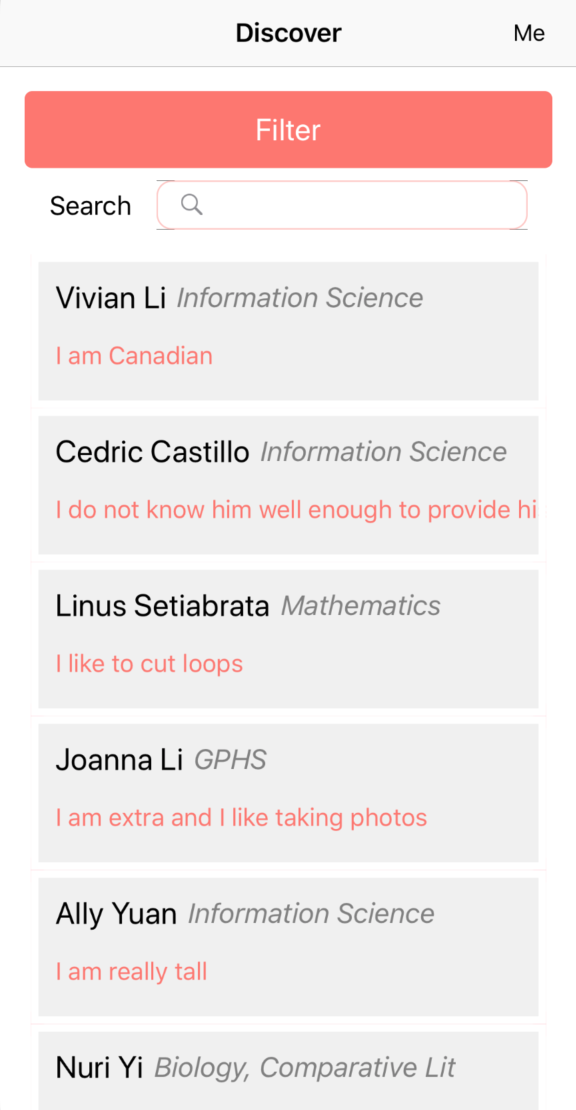
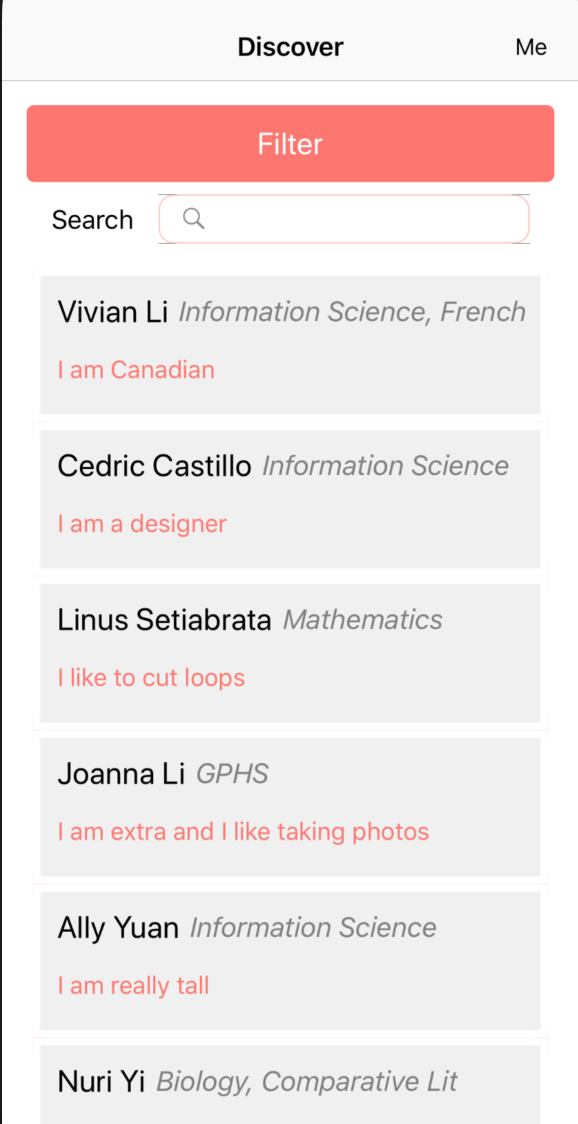
updates

diff --git a/iOSFinal/ViewController.swift b/iOSFinal/ViewController.swift
@@ -16,8 +16,8 @@ protocol SaveButtonDelegate {
 
 class ViewController: UIViewController, SaveButtonDelegate, UITableViewDataSource, UITableViewDelegate {
     
-    let profile1 = Profile(name: "Vivian Li", major: "Information Science", funFact: "I am Canadian", noiseTolerance: "Low", cleanliness: "Clean", sleeping: "11 PM - 1 AM", waking: "8 AM - 10 AM")
-    let profile2 = Profile(name: "Cedric Castillo", major: "Information Science", funFact: "I do not know him well enough to provide his fun fact for him", noiseTolerance: "Alright", cleanliness: "Messy", sleeping: "After 1 AM", waking: "Before 8 AM")
+    let profile1 = Profile(name: "Vivian Li", major: "Information Science, French", funFact: "I am Canadian", noiseTolerance: "Low", cleanliness: "Clean", sleeping: "11 PM - 1 AM", waking: "8 AM - 10 AM")
+    let profile2 = Profile(name: "Cedric Castillo", major: "Information Science", funFact: "I am a designer", noiseTolerance: "Alright", cleanliness: "Messy", sleeping: "After 1 AM", waking: "Before 8 AM")
      let profile3 = Profile(name: "Linus Setiabrata", major: "Mathematics", funFact: "I like to cut loops", noiseTolerance: "High", cleanliness: "Messy", sleeping: "11 PM - 1 AM", waking: "Before 8 AM")
      let profile4 = Profile(name: "Joanna Li", major: "GPHS", funFact: "I am extra and I like taking photos", noiseTolerance: "High", cleanliness: "Messy", sleeping: "After 1 AM", waking: "8 AM - 10 AM")
      let profile5 = Profile(name: "Ally Yuan", major: "Information Science", funFact: "I am really tall", noiseTolerance: "High", cleanliness: "Alright", sleeping: "After 1 AM", waking: "After 10 AM")
@@ -160,6 +160,9 @@ class ViewController: UIViewController, SaveButtonDelegate, UITableViewDataSourc
             cell.majorLabel.text = profiles[indexPath.row].major
             cell.funFactLabel.text = profiles[indexPath.row].funFact
             
+            cell.funFactLabel.numberOfLines = 0
+            cell.funFactLabel.lineBreakMode = NSLineBreakMode.byWordWrapping
+            
             cell.backgroundColor = cellColor
             cell.layer.borderColor = UIColor.white.cgColor
             cell.layer.borderWidth = 5
@@ -193,12 +196,12 @@ class ViewController: UIViewController, SaveButtonDelegate, UITableViewDataSourc
     }
     
     func surveySaveButtonPressed() {
-        // send info to database
+        // send info to database: send a post request using the values we obtained from the survey
         navigationController?.popToRootViewController(animated: true)
     }
     
     func filterSaveButtonPressed() {
-        // filter info from database
+        // filter info from database using the values we obtained from the slider functions
         dismiss(animated: true, completion: nil)
 //        tableView.reloadData()
     }

diff --git a/iOSFinal/SliderValue.swift b/iOSFinal/SliderValue.swift
@@ -7,8 +7,10 @@
 //
 
 import Foundation
+import UIKit
 
-func setNoiseTolerance(noiseToleranceSlider: Float) -> String{
+func setNoiseTolerance(sender: UISlider) -> String{
+    let noiseToleranceSlider = sender.value
     var noiseToleranceValue: String
     if noiseToleranceSlider < 0.3 {
         noiseToleranceValue = "Low"
@@ -22,7 +24,8 @@ func setNoiseTolerance(noiseToleranceSlider: Float) -> String{
     return noiseToleranceValue
 }
 
-func setCleanliness(cleanlinessSlider: Float) -> String{
+func setCleanliness(sender: UISlider) -> String{
+    let cleanlinessSlider = sender.value
     var cleanlinessValue: String
     if cleanlinessSlider < 0.3 {
         cleanlinessValue = "Messy"
@@ -36,7 +39,8 @@ func setCleanliness(cleanlinessSlider: Float) -> String{
     return cleanlinessValue
 }
 
-func setSleeping(sleepingSlider: Float) -> String{
+func setSleeping(sender: UISlider) -> String{
+    let sleepingSlider = sender.value
     var sleepingValue: String
     if sleepingSlider < 0.3 {
         sleepingValue = "Before 11 PM"
@@ -50,7 +54,8 @@ func setSleeping(sleepingSlider: Float) -> String{
     return sleepingValue
 }
 
-func setWaking(wakingSlider: Float) -> String{
+func setWaking(sender: UISlider) -> String{
+    let wakingSlider = sender.value
     var wakingValue: String
     if wakingSlider < 0.3 {
         wakingValue = "Before 8 AM"

diff --git a/iOSFinal/Profile.swift b/iOSFinal/Profile.swift
@@ -19,7 +19,6 @@ class Profile: NSObject {
     var sleeping: String
     var waking: String
     
-    // pull in data from api
     init(name:String, major: String, funFact: String, noiseTolerance: String, cleanliness: String, sleeping: String, waking: String) {
         self.name = name
         self.major = major
@@ -30,6 +29,7 @@ class Profile: NSObject {
         self.waking = waking
     }
     
+    // pull in data from api
     init(from json: JSON) {
         self.name = json["name"].stringValue
         self.major = json["major"].stringValue

diff --git a/iOSFinal/SurveyViewController.swift b/iOSFinal/SurveyViewController.swift
@@ -256,6 +256,10 @@ class SurveyViewController: UIViewController {
     }
     
     @objc func surveySaveButtonPressed() {
+        let noiseToleranceValue = setNoiseTolerance(sender: noiseToleranceSlider)
+        let cleanlinessValue = setNoiseTolerance(sender: cleanlinessSlider)
+        let sleepingValue = setNoiseTolerance(sender: sleepingSlider)
+        let wakingValue = setNoiseTolerance(sender: wakingSlider)
         if let _ = nameTextfield.text {
             delegate?.surveySaveButtonPressed()
         }

diff --git a/iOSFinal/FilterViewController.swift b/iOSFinal/FilterViewController.swift
@@ -218,8 +218,11 @@ class FilterViewController: UIViewController {
     }
     
     @objc func filterSaveButtonPressed() {
+        let noiseToleranceValue = setNoiseTolerance(sender: noiseToleranceSlider)
+        let cleanlinessValue = setNoiseTolerance(sender: cleanlinessSlider)
+        let sleepingValue = setNoiseTolerance(sender: sleepingSlider)
+        let wakingValue = setNoiseTolerance(sender: wakingSlider)
         delegate?.filterSaveButtonPressed()
-        // send data to database
     }
     
     

diff --git a/iOSFinal/NetworkManager.swift b/iOSFinal/NetworkManager.swift
@@ -12,7 +12,7 @@
 //
 //class NetworkManager {
 //
-//    private static let endpoint = "https://mindylou.github.io/classes.json"
+//    private static let endpoint = "http://fillerendpoint"
 //
 //    static func getProfiles(withQuery query:String, _ completion: @escaping ([Profile]) -> Void) {
 //
